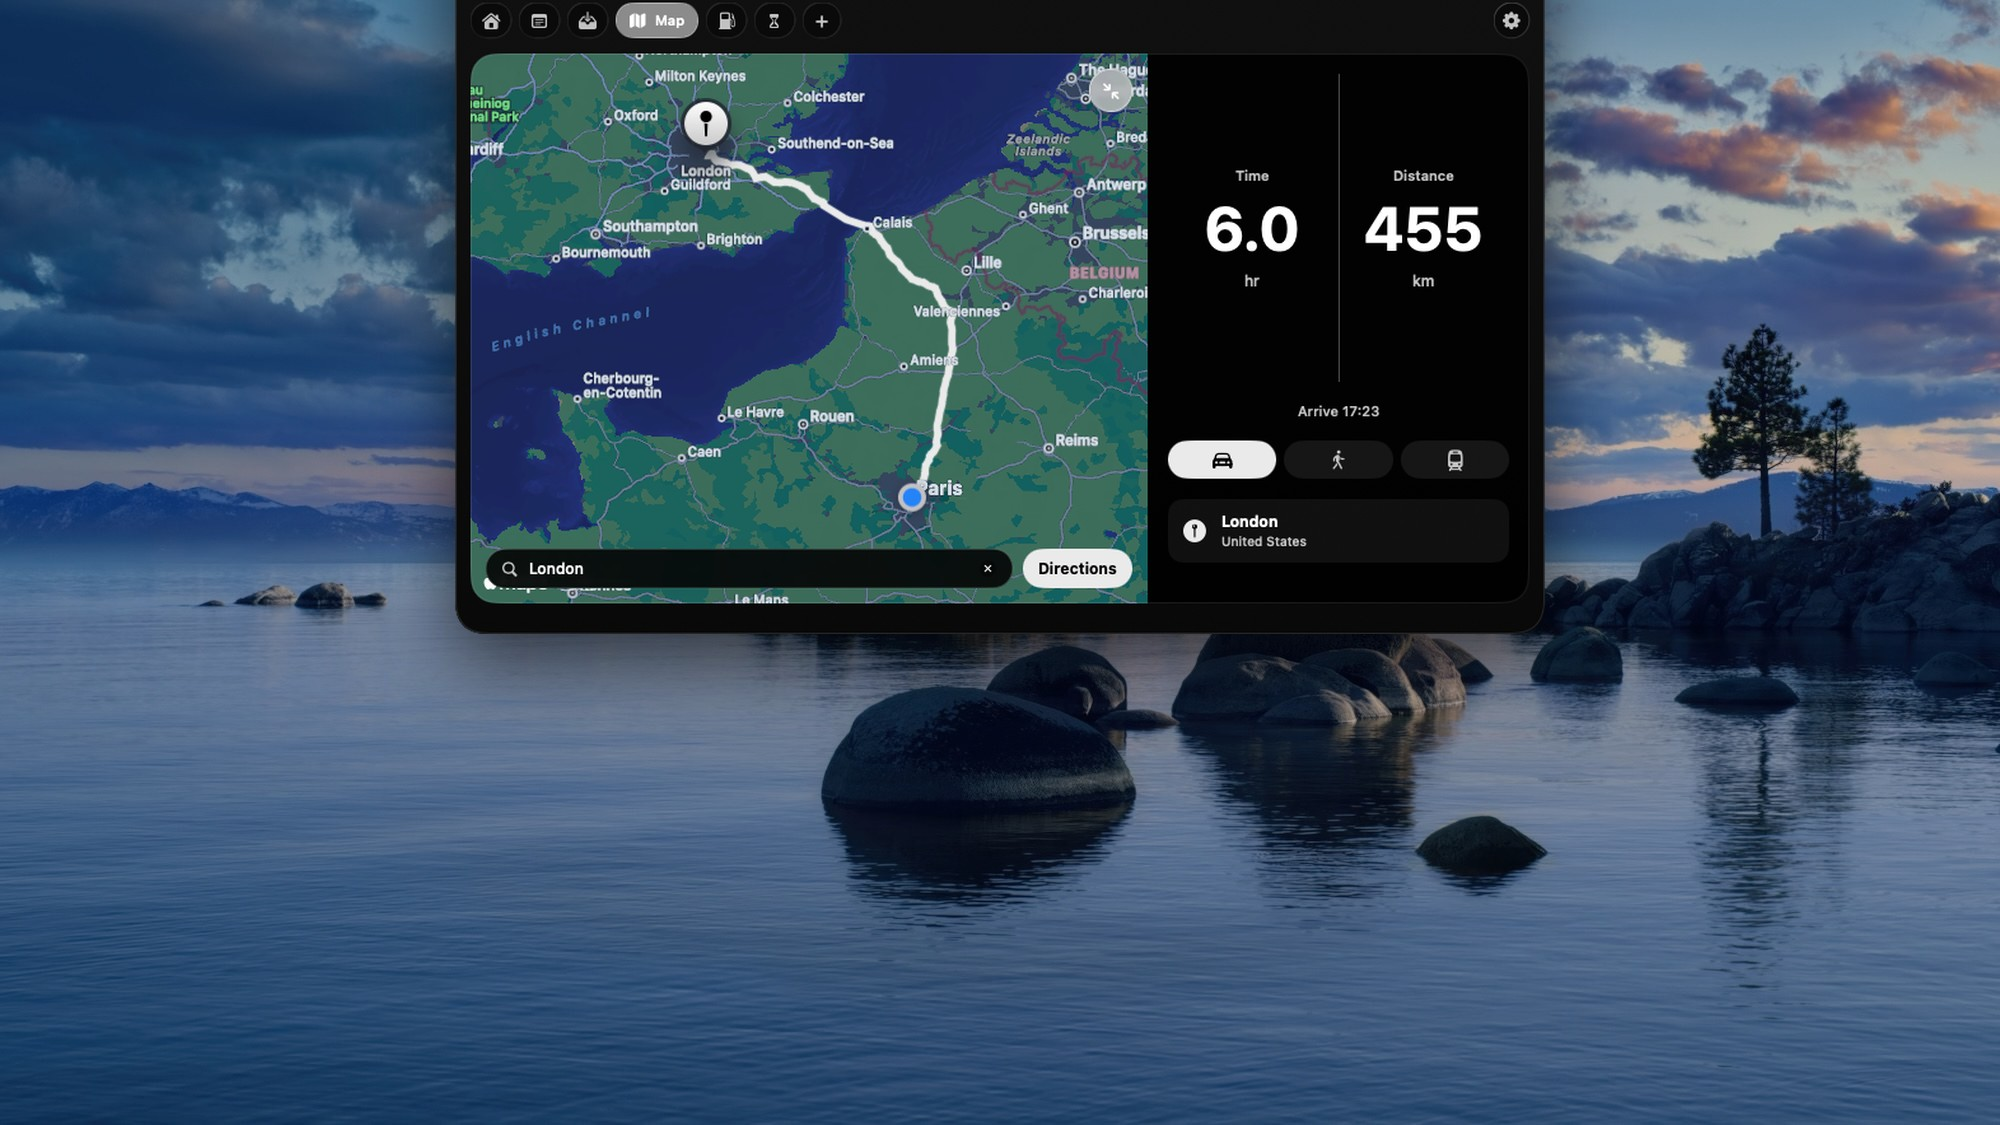
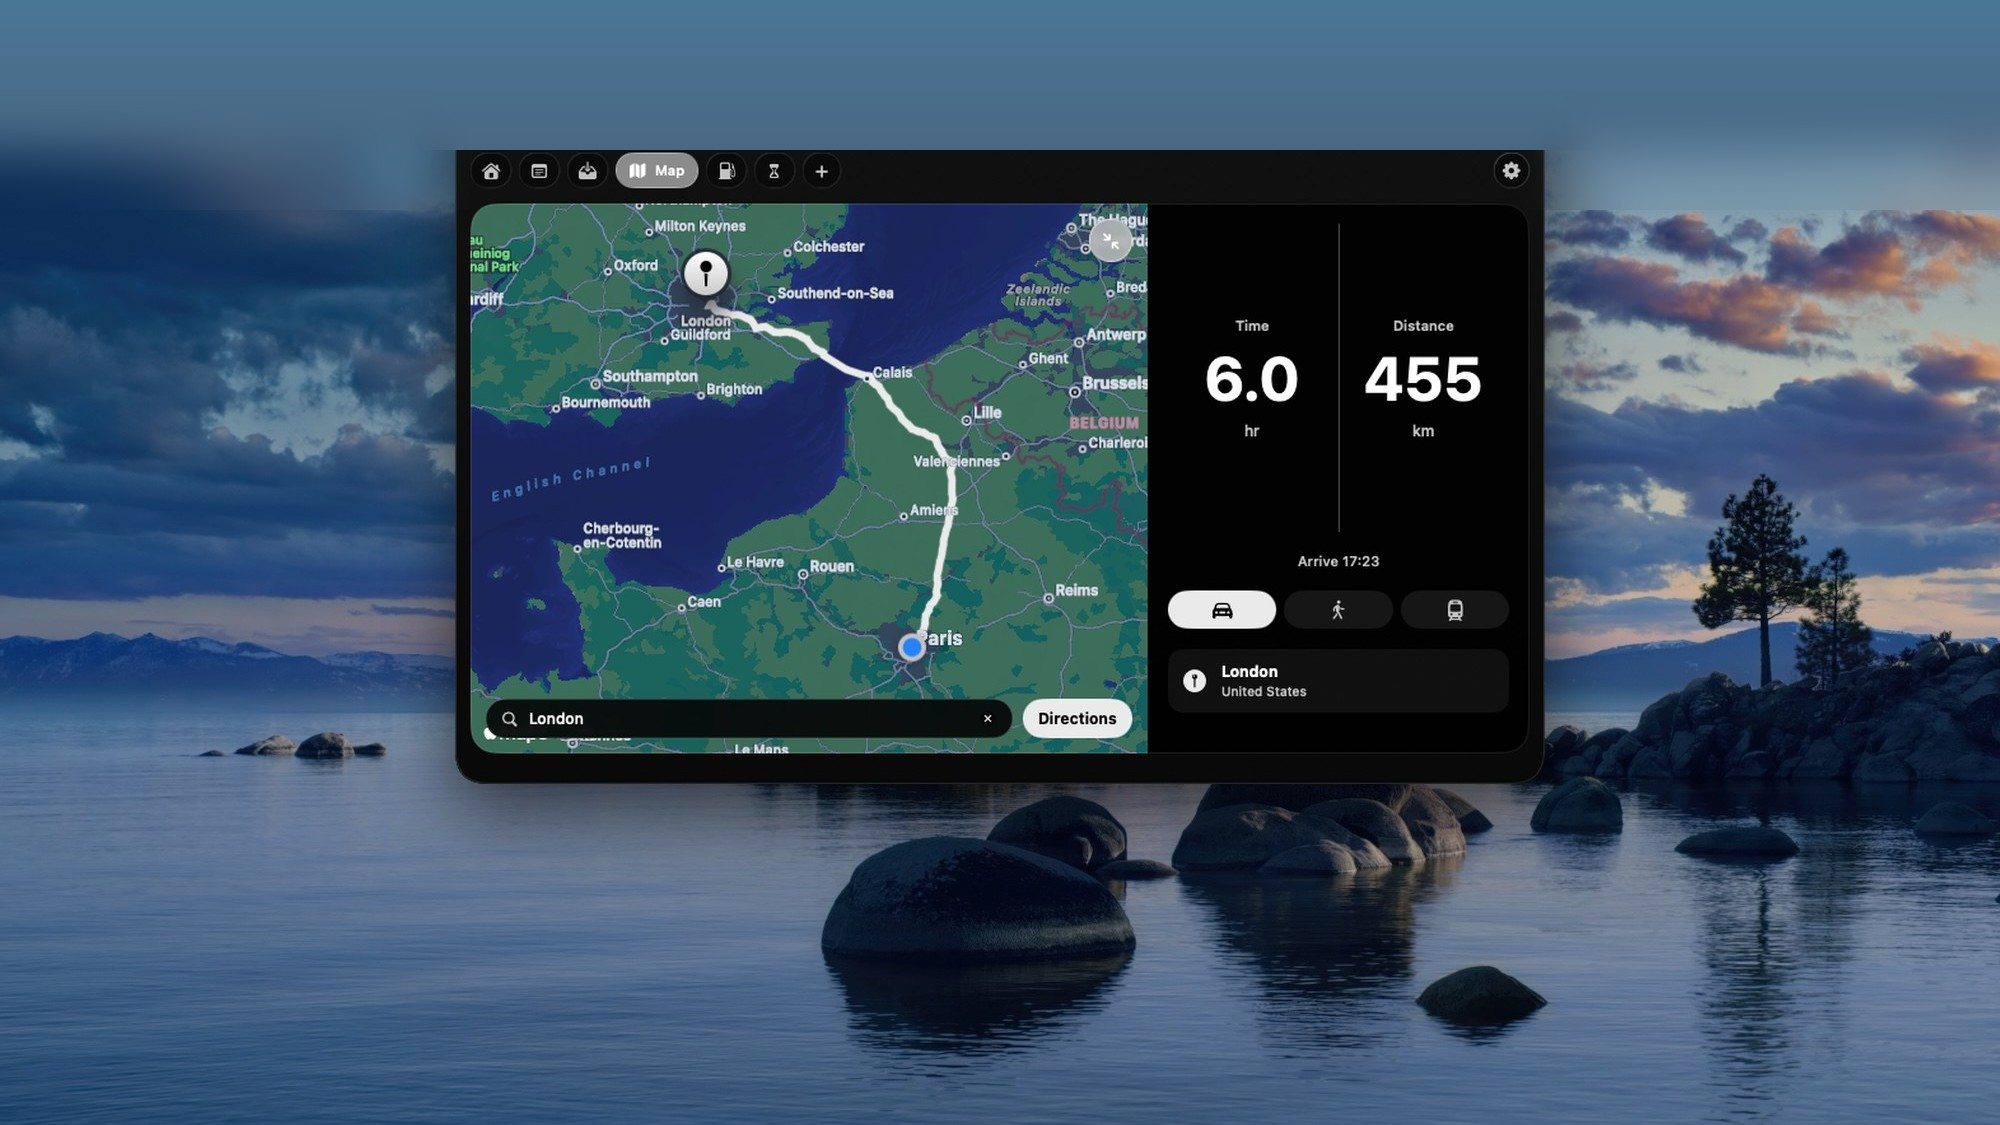
notch: add sky headroom so the panel is no longer cut off at the top
The composited shots pinned the notch panel flush to the top edge, so its
top read as clipped. Extended each with matched sky above the panel and
feathered the seam (masked around the panel so its UI stays sharp).
Cache-bust the five shots to v2.

diff --git a/notch/index.html b/notch/index.html
@@ -34,7 +34,7 @@
   <link rel="apple-touch-icon" href="/assets/apple-touch-icon.png?v=4" />
   <link rel="stylesheet" href="/styles.css" />
   <script type="application/ld+json">
-  {"@context":"https://schema.org","@type":"SoftwareApplication","isPartOf":{"@id":"https://buildtoberemembered.com/#website"},"name":"All in a notch","operatingSystem":"macOS 26+","softwareVersion":"1.26.09","applicationCategory":"UtilitiesApplication","description":"A macOS app that lives over the notch and expands into a Liquid Glass panel with media controls, a nearby-places map, a moodboard, Claude chat, AirDrop, a websites shelf and a scratch note.","url":"https://buildtoberemembered.com/notch/","image":"https://buildtoberemembered.com/assets/og/notch.jpg","screenshot":["https://buildtoberemembered.com/assets/work/notch-media.jpg","https://buildtoberemembered.com/assets/work/notch-map.jpg","https://buildtoberemembered.com/assets/work/notch-mood.jpg","https://buildtoberemembered.com/assets/work/notch-chat.jpg"],"featureList":["Now playing from Apple Music or Spotify, with a scrubber and controls","A map of what's nearby — coffee, food, transit and more","A moodboard for images, links and notes","Chat with Claude, right in the notch","AirDrop and a drag-and-drop file shelf","A quick-launch shelf for your favourite websites","An autosaving scratch note","Real Liquid Glass — expands on hover, hides in the notch"],"downloadUrl":"https://github.com/02-alt/btbr-website/releases/download/notch/NotchGlass-1.26.09.4.dmg","installUrl":"https://github.com/02-alt/btbr-website/releases/download/notch/NotchGlass-1.26.09.4.dmg","fileSize":"14.3 MB","datePublished":"2026","inLanguage":"en","offers":{"@type":"Offer","price":"0","priceCurrency":"USD","availability":"https://schema.org/InStock"},"author":{"@type":"Person","name":"Isaac","url":"https://buildtoberemembered.com/about/"},"publisher":{"@id":"https://buildtoberemembered.com/#org","@type":"Organization","name":"builtoberemembered","url":"https://buildtoberemembered.com/","logo":"https://buildtoberemembered.com/assets/apple-touch-icon.png","sameAs":["https://buymeacoffee.com/builttoberemembered"]}}
+  {"@context":"https://schema.org","@type":"SoftwareApplication","isPartOf":{"@id":"https://buildtoberemembered.com/#website"},"name":"All in a notch","operatingSystem":"macOS 26+","softwareVersion":"1.26.09","applicationCategory":"UtilitiesApplication","description":"A macOS app that lives over the notch and expands into a Liquid Glass panel with media controls, a nearby-places map, a moodboard, Claude chat, AirDrop, a websites shelf and a scratch note.","url":"https://buildtoberemembered.com/notch/","image":"https://buildtoberemembered.com/assets/og/notch.jpg","screenshot":["https://buildtoberemembered.com/assets/work/notch-media.jpg?v=2","https://buildtoberemembered.com/assets/work/notch-map.jpg?v=2","https://buildtoberemembered.com/assets/work/notch-mood.jpg?v=2","https://buildtoberemembered.com/assets/work/notch-chat.jpg?v=2"],"featureList":["Now playing from Apple Music or Spotify, with a scrubber and controls","A map of what's nearby — coffee, food, transit and more","A moodboard for images, links and notes","Chat with Claude, right in the notch","AirDrop and a drag-and-drop file shelf","A quick-launch shelf for your favourite websites","An autosaving scratch note","Real Liquid Glass — expands on hover, hides in the notch"],"downloadUrl":"https://github.com/02-alt/btbr-website/releases/download/notch/NotchGlass-1.26.09.4.dmg","installUrl":"https://github.com/02-alt/btbr-website/releases/download/notch/NotchGlass-1.26.09.4.dmg","fileSize":"14.3 MB","datePublished":"2026","inLanguage":"en","offers":{"@type":"Offer","price":"0","priceCurrency":"USD","availability":"https://schema.org/InStock"},"author":{"@type":"Person","name":"Isaac","url":"https://buildtoberemembered.com/about/"},"publisher":{"@id":"https://buildtoberemembered.com/#org","@type":"Organization","name":"builtoberemembered","url":"https://buildtoberemembered.com/","logo":"https://buildtoberemembered.com/assets/apple-touch-icon.png","sameAs":["https://buymeacoffee.com/builttoberemembered"]}}
   </script>
   <script type="application/ld+json">
   {"@context":"https://schema.org","@type":"FAQPage","mainEntity":[{"@type":"Question","name":"What is All in a notch?","acceptedAnswer":{"@type":"Answer","text":"A macOS app that lives over your notch as a small pill and expands, on hover, into a Liquid Glass panel that holds everything in one place — media controls, a nearby-places map, a moodboard, Claude chat, AirDrop, a websites shelf and a scratch note."}},{"@type":"Question","name":"What can it do?","acceptedAnswer":{"@type":"Answer","text":"Control now-playing music from Apple Music or Spotify; see what's nearby on a map (coffee, food, transit and more); keep a moodboard of images, links and notes; chat with Claude; AirDrop and park dropped files on a shelf; quick-launch favourite websites; and jot an autosaving note."}},{"@type":"Question","name":"How do I open it?","acceptedAnswer":{"@type":"Answer","text":"Hover the pill over your notch and it expands into the glass panel; move the pointer away and it collapses back into the notch."}},{"@type":"Question","name":"Do I need a Mac with a notch?","acceptedAnswer":{"@type":"Answer","text":"It's made for the notch, but on a display without one it simply shows as a pill at the top of the screen. It auto-positions on whichever display has the notch."}},{"@type":"Question","name":"Does it need any permissions?","acceptedAnswer":{"@type":"Answer","text":"The media tab controls Music or Spotify through AppleScript, so macOS asks for Automation permission the first time — grant it under System Settings → Privacy & Security → Automation."}},{"@type":"Question","name":"What do I need to run it?","acceptedAnswer":{"@type":"Answer","text":"A Mac running macOS 26 (Tahoe) or later. If macOS says it can't verify the developer on first launch, right-click the app and choose Open."}},{"@type":"Question","name":"What's new in this version?","acceptedAnswer":{"@type":"Answer","text":"Two new tabs, podcasts in the notch, and a smoother finish. A Space tab predicts when the ISS will pass over you and shows it live on a world map — ground track, speed, altitude and whether it's sunlit. A Twitch tab lets you edit your stream's title and category and follow live chat, replying from the notch with @-mentions highlighted. The Media tab now reads and controls Reed's podcast player — episode, show, artwork, chapters and transport — alongside Music and Spotify, appearing automatically once Reed is installed. And a smoother finish: numbers roll like an odometer, album art glides between the closed notch and the open player, the cover no longer flickers between apps, and a batch of stability fixes."}},{"@type":"Question","name":"What version is this?","acceptedAnswer":{"@type":"Answer","text":"1.26.09. Updates are dated — numbered 1.YY.MM (year then month), so this build is from September 2026. That way you can always tell how recent your copy is."}},{"@type":"Question","name":"How much does it cost?","acceptedAnswer":{"@type":"Answer","text":"Free."}}]}
@@ -69,11 +69,11 @@
       </div>
 
       <div class="shots">
-        <figure class="shot"><img src="/assets/work/notch-media.jpg" width="2000" height="1125" loading="eager" fetchpriority="high" decoding="async" alt="All in a notch expanded from the notch showing the Media tab — album art, track, scrubber and playback controls" /><figcaption>Now playing, a hover away from the notch</figcaption></figure>
-        <figure class="shot"><img src="/assets/work/notch-map.jpg" width="2000" height="1125" loading="lazy" decoding="async" alt="All in a notch Map tab showing a city map with nearby coffee, food, gas, bars, grocery and transit, plus recent places" /><figcaption>See what's nearby — coffee, food, transit and more</figcaption></figure>
-        <figure class="shot"><img src="/assets/work/notch-island.jpg" width="2000" height="1125" loading="lazy" decoding="async" alt="All in a notch in Dynamic Island mode — the closed notch as a black pill at the top of the desktop showing album art and the current temperature, 21 degrees" /><figcaption>Dynamic Island mode — glanceable, right from the notch</figcaption></figure>
-        <figure class="shot"><img src="/assets/work/notch-mood.jpg" width="2000" height="1125" loading="lazy" decoding="async" alt="All in a notch Mood tab — a moodboard of images, an are.na card and a note" /><figcaption>A moodboard for images, links and notes</figcaption></figure>
-        <figure class="shot"><img src="/assets/work/notch-chat.jpg" width="2000" height="1125" loading="lazy" decoding="async" alt="All in a notch Chat tab — message Claude directly from the notch panel" /><figcaption>Chat with Claude, right in the notch</figcaption></figure>
+        <figure class="shot"><img src="/assets/work/notch-media.jpg?v=2" width="2000" height="1125" loading="eager" fetchpriority="high" decoding="async" alt="All in a notch expanded from the notch showing the Media tab — album art, track, scrubber and playback controls" /><figcaption>Now playing, a hover away from the notch</figcaption></figure>
+        <figure class="shot"><img src="/assets/work/notch-map.jpg?v=2" width="2000" height="1125" loading="lazy" decoding="async" alt="All in a notch Map tab showing a city map with nearby coffee, food, gas, bars, grocery and transit, plus recent places" /><figcaption>See what's nearby — coffee, food, transit and more</figcaption></figure>
+        <figure class="shot"><img src="/assets/work/notch-island.jpg?v=2" width="2000" height="1125" loading="lazy" decoding="async" alt="All in a notch in Dynamic Island mode — the closed notch as a black pill at the top of the desktop showing album art and the current temperature, 21 degrees" /><figcaption>Dynamic Island mode — glanceable, right from the notch</figcaption></figure>
+        <figure class="shot"><img src="/assets/work/notch-mood.jpg?v=2" width="2000" height="1125" loading="lazy" decoding="async" alt="All in a notch Mood tab — a moodboard of images, an are.na card and a note" /><figcaption>A moodboard for images, links and notes</figcaption></figure>
+        <figure class="shot"><img src="/assets/work/notch-chat.jpg?v=2" width="2000" height="1125" loading="lazy" decoding="async" alt="All in a notch Chat tab — message Claude directly from the notch panel" /><figcaption>Chat with Claude, right in the notch</figcaption></figure>
       </div>
     </main>
 
